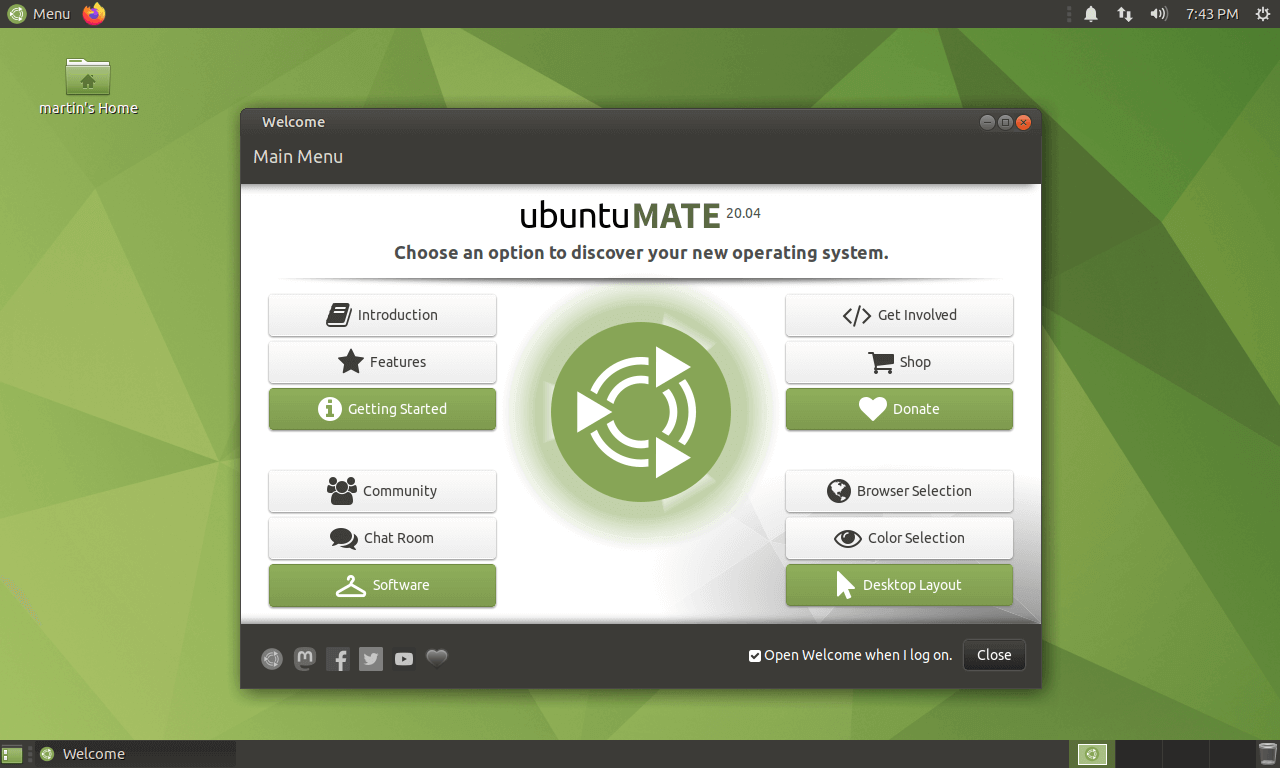
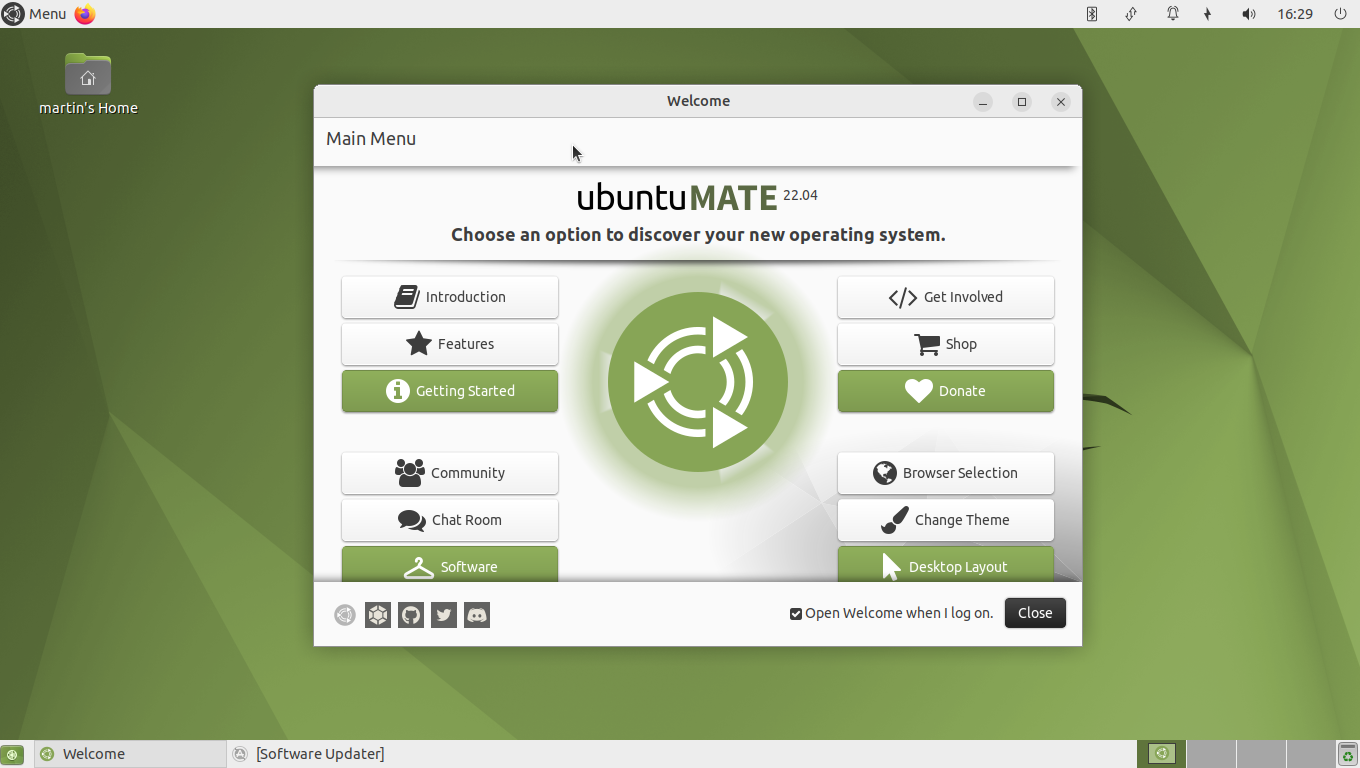
Update site visuals for 22.04 (#143)
* Update site visuals for 22.04

Update screenshots for 22.04. Remove 21.04 issues

* Retain netbook.png for First Class Gaming

Retain netbook.png for First Class Gaming

diff --git a/pages/index.md b/pages/index.md
@@ -9,19 +9,17 @@ banner_url: /about/
 gallery:
     - image: /images/homepage/01_familiar.png
       caption: null
-    - image: /images/homepage/02_contemporary.png
+    - image: /images/homepage/02_mutiny.png
       caption: null
-    - image: /images/homepage/03_cupertino.png
+    - image: /images/homepage/03_redmond.png
       caption: null
-    - image: /images/homepage/04_mutiny.png
+    - image: /images/homepage/04_cupertino.png
       caption: null
-    - image: /images/homepage/05_netbook.png
+    - image: /images/homepage/05_traditional.png
       caption: null
-    - image: /images/homepage/06_pantheon.png
+    - image: /images/homepage/06_contemporary.png
       caption: null
-    - image: /images/homepage/07_redmond.png
-      caption: null
-    - image: /images/homepage/08_traditional.png
+    - image: /images/homepage/07_pantheon.png
       caption: null
 
 title: Ubuntu MATE | For a retrospective future
